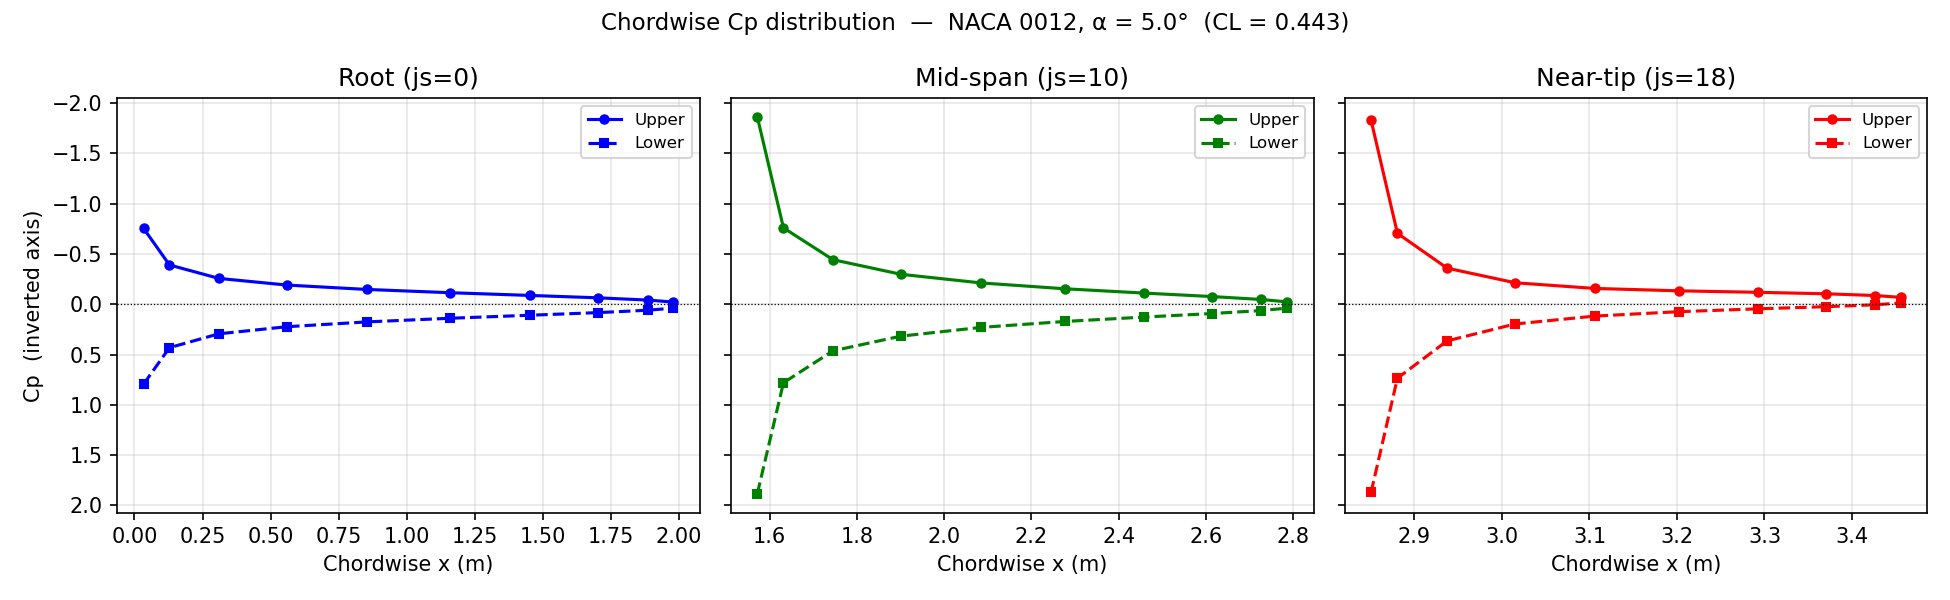
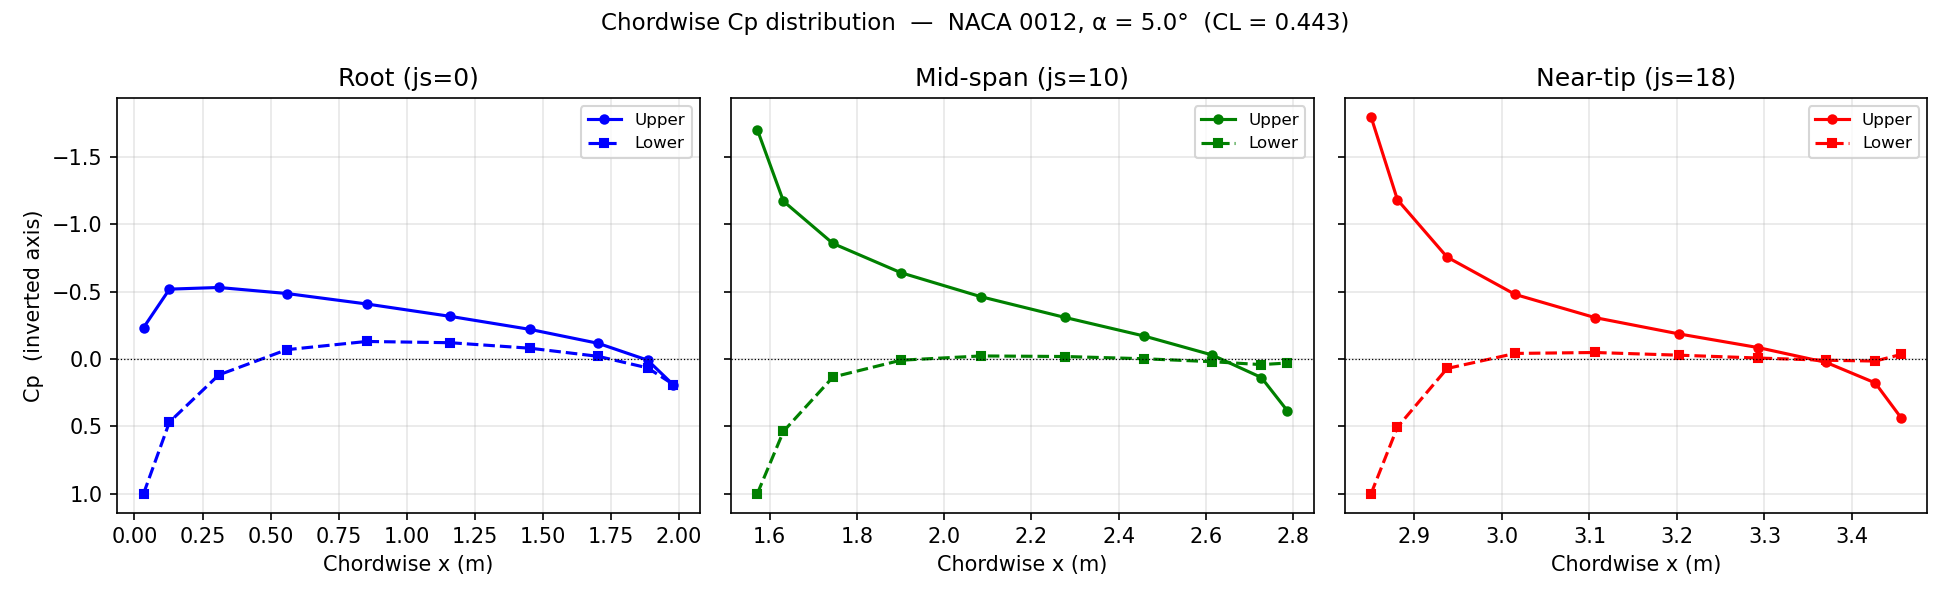
Update examples to match fixed solve_morino algorithm
03_thick_flying_wing: update docstring to describe the corrected method
(Hess-Smith source solve at α=0° for thickness Cp, VLM ΔCp for lift,
Cp clipped to ≤ 1 physical bound).  Re-run to regenerate output figures.

stage2_mesh: add sys.path.insert so the script runs from repo root
like all other examples (was raising ModuleNotFoundError).

diff --git a/examples/03_thick_flying_wing/03_thick_flying_wing.py b/examples/03_thick_flying_wing/03_thick_flying_wing.py
@@ -13,20 +13,25 @@ AR        : ≈ 6.25
 
 Method
 ------
-solve_morino combines two solves to produce both accurate global forces and
+solve_morino combines two solves to produce accurate global forces and
 physically correct surface Cp distributions:
 
-  (A) VLM on the mean camber surface (vertex-averaged from upper/lower)
-      → Kutta-Joukowski forces:  CL, CDi, Cm  (primary output)
+  (A) Hess-Smith source solve on the thick surface at α = 0°
+      → pure thickness Cp (symmetric, no lift).
+      Solves AIC_σ · σ = −(V∞_0 · n̂) with V∞_0 along x-axis.
+      Tangential surface velocity → Cp_thickness on each panel.
+      Using α = 0° avoids embedding the stagnation-point shift into σ,
+      which would double-count with the VLM lifting ΔCp.
 
-  (B) At each VLM collocation point (3/4-chord of each camber panel) the
-      total velocity is V_∞ + V_induced.  This gives Cp on the camber:
-          Cp_cam = 1 − |V_inf + V_ind|² / V_∞²
-      The pressure difference from circulation:
-          ΔCp_j = 2Γ_j / (V_∞ Δx_j)      (thin-airfoil K-J approximation)
-      is split symmetrically to give separate upper/lower Cp:
-          Cp_upper = Cp_cam − ΔCp/2   (suction)
-          Cp_lower = Cp_cam + ΔCp/2   (pressure)
+  (B) VLM on the mean camber surface (vertex-averaged from upper/lower)
+      → Kutta-Joukowski forces: CL, CDi, Cm  (primary output).
+      The pressure difference from bound circulation:
+          ΔCp_j = 2Γ_j / (V_∞ · Δx_j)    (thin-airfoil K-J)
+
+  (C) Superimpose thickness and lifting effects; clip to Cp ≤ 1
+      (Bernoulli hard bound in incompressible flow):
+          Cp_upper = Cp_thickness − ΔCp / 2   (suction)
+          Cp_lower = Cp_thickness + ΔCp / 2   (pressure, ≤ 1)
 
 Outputs (saved in same directory as this script)
 -------------------------------------------------

diff --git a/examples/stage2_mesh/stage2_mesh.py b/examples/stage2_mesh/stage2_mesh.py
@@ -12,11 +12,16 @@ Run from the repo root:
     python examples/stage2_mesh/stage2_mesh.py
 """
 
+import os
+import sys
 from pathlib import Path
+
 import numpy as np
 import matplotlib
 matplotlib.use("Agg")          # headless — saves to file instead of screen
 import matplotlib.pyplot as plt
+
+sys.path.insert(0, os.path.join(os.path.dirname(__file__), "../.."))
 
 from lspaero.geometry.wing import make_wing_mesh, SURF_UPPER, SURF_LOWER, SURF_TIP
 from lspaero.viz import plot_mesh, save_vtk
